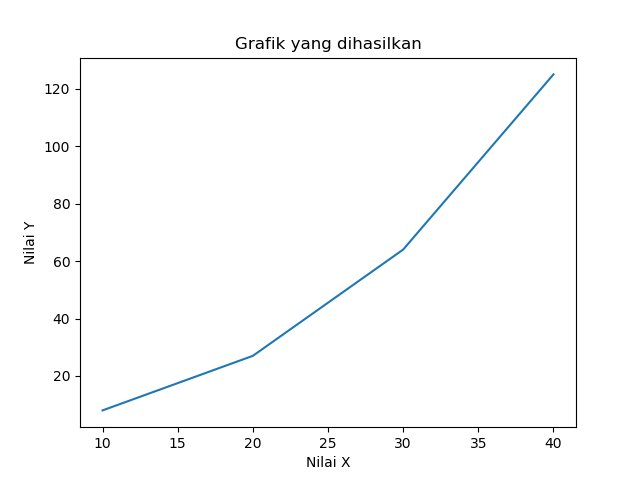
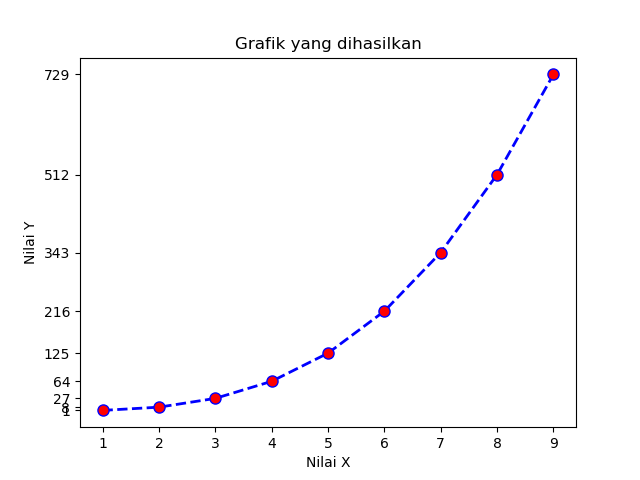
Readme

diff --git a/app.py b/app.py
@@ -1,8 +1,9 @@
 from flask import Flask, request, render_template, redirect, url_for, send_from_directory
 import matplotlib.pyplot as plt
-import matplotlib 
 
+import matplotlib 
 matplotlib.use('agg')   # mengubah backend yang digunakan 
+
 app = Flask(__name__)
 
 @app.route('/')
@@ -24,11 +25,13 @@ def data():
         nilai_y.append(int(i))
     
     # membuat grafik
-    plt.close()     # menghapus plot yang sudah ada sebelumnya
-    plt.plot(nilai_x, nilai_y)
+    plt.close()             # menghapus plot yang sudah ada sebelumnya
+    plt.plot(nilai_x, nilai_y, ls='--', lw=2, color='blue', marker='o', markersize=8, markerfacecolor='red')
     plt.title('Grafik yang dihasilkan')
     plt.xlabel('Nilai X')
+    plt.xticks(nilai_x)
     plt.ylabel('Nilai Y')
+    plt.yticks(nilai_y)
     plt.savefig('storage/Grafik.png')
     namafile = 'Grafik.png'
     return redirect(url_for('grafik', x = namafile))
@@ -36,6 +39,10 @@ def data():
 @app.route('/storage/<path:x>')
 def grafik(x):
     return send_from_directory('storage', x)
+
+@app.errorhandler(404)
+def error(error):
+    return '<h1> 404 Not Found!</h1>'
 
 if __name__ == "__main__":
     app.run(debug=True)

diff --git a/Readme.MD b/Readme.MD
@@ -1,0 +1,19 @@
+# Flask - Matplotlib
+
+This repository contain a simple flask app where user can input two lists of numbers and the app will return the graphic that was made using matplotlib module.
+
+When I run this app I always get this warning message in my terminal
+
+```bash
+WARNING: QApplication was not created in the main() thread.
+```    
+
+So I used this line of code to change the backend that is used by matplotlib. Feel free to turn off this code, to know if the error also happens in your computer or not.
+
+```python 
+import matplotlib 
+matplotlib.use('agg')
+```
+
+More information about this can be found in the documentation
+https://matplotlib.org/tutorials/introductory/usage.html#backends
